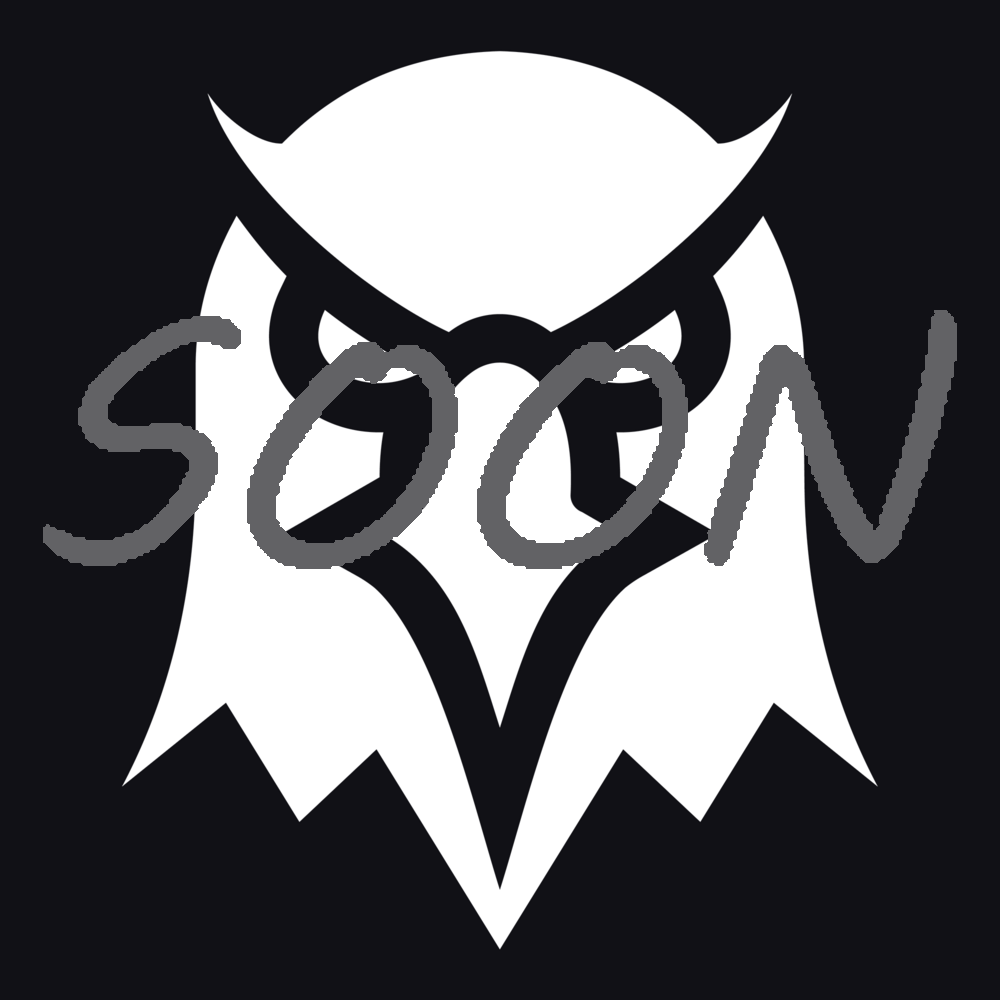
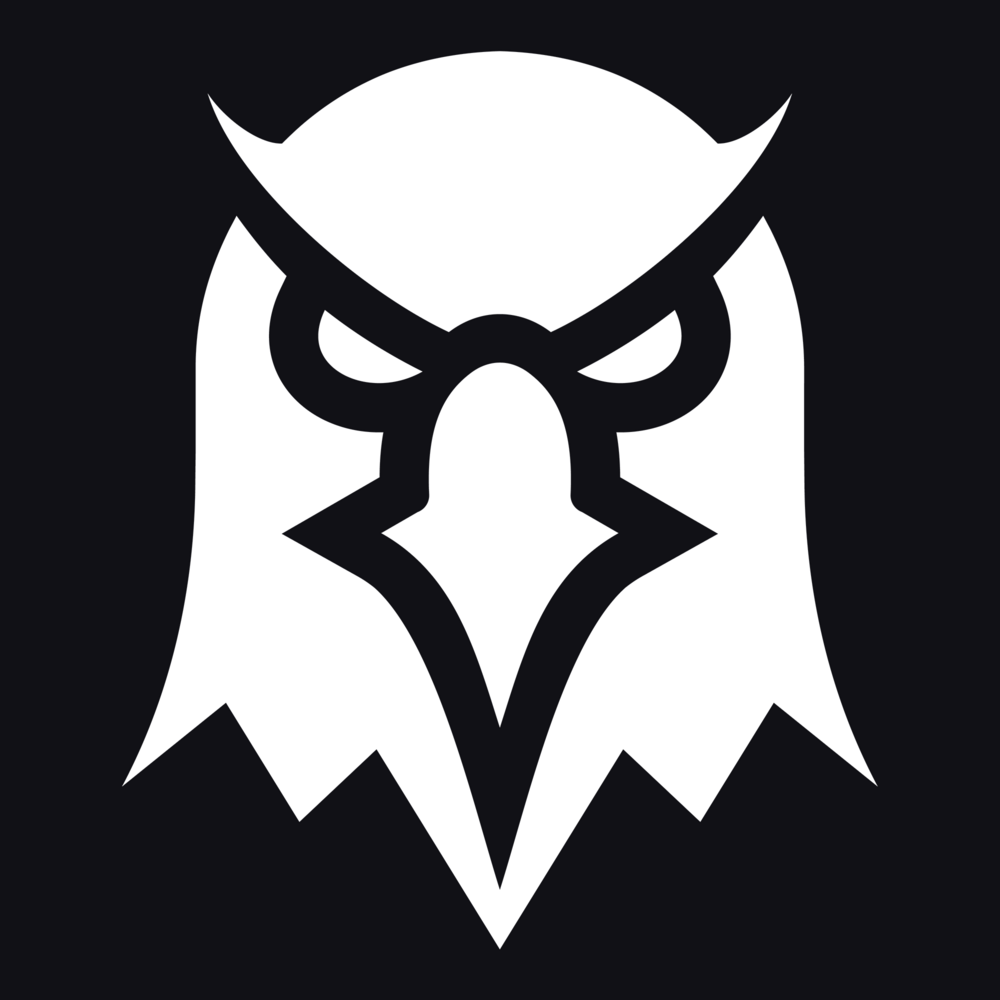
Add files via upload

Changed region(s): [[0.248, 0.341, 0.713, 0.589], [0.682, 0.31, 0.961, 0.589], [0.031, 0.31, 0.248, 0.589]]

diff --git a/index.html b/index.html
@@ -115,7 +115,7 @@
                     -webkit-background-clip: text;
                     background-clip: text;">TRUMPWIFHAT COIN</span>
                 </h1>
-                <a href=""
+                <a href="https://raydium.io/swap/?utm_source=phantom&utm_medium=list&inputMint=sol&outputMint=GbSvf1ids5cksUzs1np1V8vqMrux2yAKd13zEdwgpump"
                     class="w-full md:w-1/2 lg:w-1/2">
                     <button type="button"
                         class="text-white flex justify-center gap-x-2 items-center  w-full bg-black hover:bg-white hover:text-black border border-white focus:outline-none focus:ring-4 focus:ring-white font-medium rounded-full text-lg px-5 py-2.5 me-2 mb-2 ">
@@ -133,7 +133,7 @@
                     <div id="hs-clipboard-basic" class=" text-white border border-blue-500 rounded-lg w-1/2 md:w-1/2">
                         <input id="hs-clipboard-input" type="text"
                             class="py-3 px-4 block rounded-lg text-sm w-full md:w-full placeholder:text-white focus:border-blue-500 focus:ring-blue-500 bg-gray-900 border-gray-700"
-                            value="Coming soon">
+                            value="GbSvf1ids5cksUzs1np1V8vqMrux2yAKd13zEdwgpump">
                     </div>
                     <button type="button"
                         class="js-clipboard p-3 inline-flex items-center gap-x-2 text-sm font-medium rounded-lg border border-blue-500 bg-gray-500 text-white shadow-sm hover:bg-blue-600 disabled:opacity-50 disabled:pointer-events-none dark:bg-slate-900 dark:border-gray-700 dark:text-white dark:hover:bg-gray-800 dark:focus:outline-none dark:focus:ring-1 dark:focus:ring-gray-600"
@@ -260,7 +260,7 @@
                         <div id="hs-clipboard-basic" class=" text-white border  rounded-lg w-full ">
                             <input id="hs-clipboard-input" type="text"
                                 class="py-3 px-4 block rounded-lg text-sm w-full md:w-full placeholder:text-white  bg-black"
-                                value="Coming soon">
+                                value="GbSvf1ids5cksUzs1np1V8vqMrux2yAKd13zEdwgpump">
                         </div>
                         <button type="button"
                             class="js-clipboard p-3 inline-flex items-center gap-x-2 text-sm font-medium rounded-lg border text-white shadow-sm disabled:opacity-50 disabled:pointer-events-none "
@@ -298,7 +298,7 @@
         </div>
 
         <div class="flex flex-col lg:flex-row justify-center items-center align-middle mb-5 md:mb-10 lg:mb-20 mt-5 lg:mt-20">
-            <a href="">
+            <a href="https://www.dextools.io/app/en/solana/pair-explorer/DdCUy6NQPYyFuo5mzjTVemCaG6My34YUUdz5rpXPJVWa?t=1721150383128">
                 <div class="token1 button-container mx-4 md:mx-6 lg:mx-8 mb-8">
                     <div class="button-content flex flex-col justify-center items-center border-4 rounded-lg m-4 lg:m-10 p-10 transform hover:scale-110 transition duration-200">
                         <div class="flex justify-center items-center">
@@ -310,7 +310,7 @@
                     </div>
                 </div>
             </a>
-            <a href="">
+            <a href="https://dexscreener.com/solana/ddcuy6nqpyyfuo5mzjtvemcag6my34yuudz5rpxpjvwa">
                 <div class="token1 button-container mx-4 md:mx-6 lg:mx-8 mb-8 transform hover:scale-110 transition duration-200">
                     <div class="button-content flex flex-col justify-center items-center border-4 rounded-lg m-4 lg:m-10 p-10 transform hover:scale-110 transition duration-200">
                         <div class="flex justify-center items-center">
